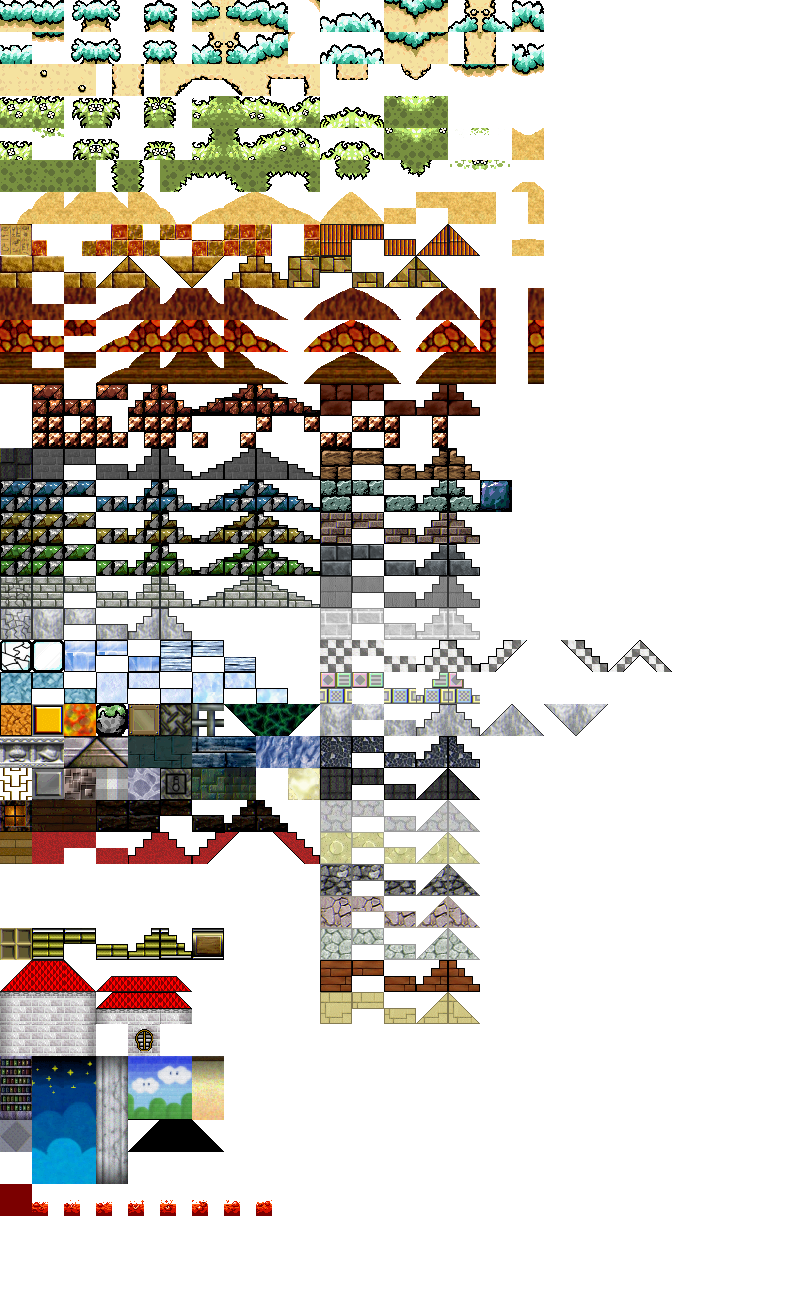
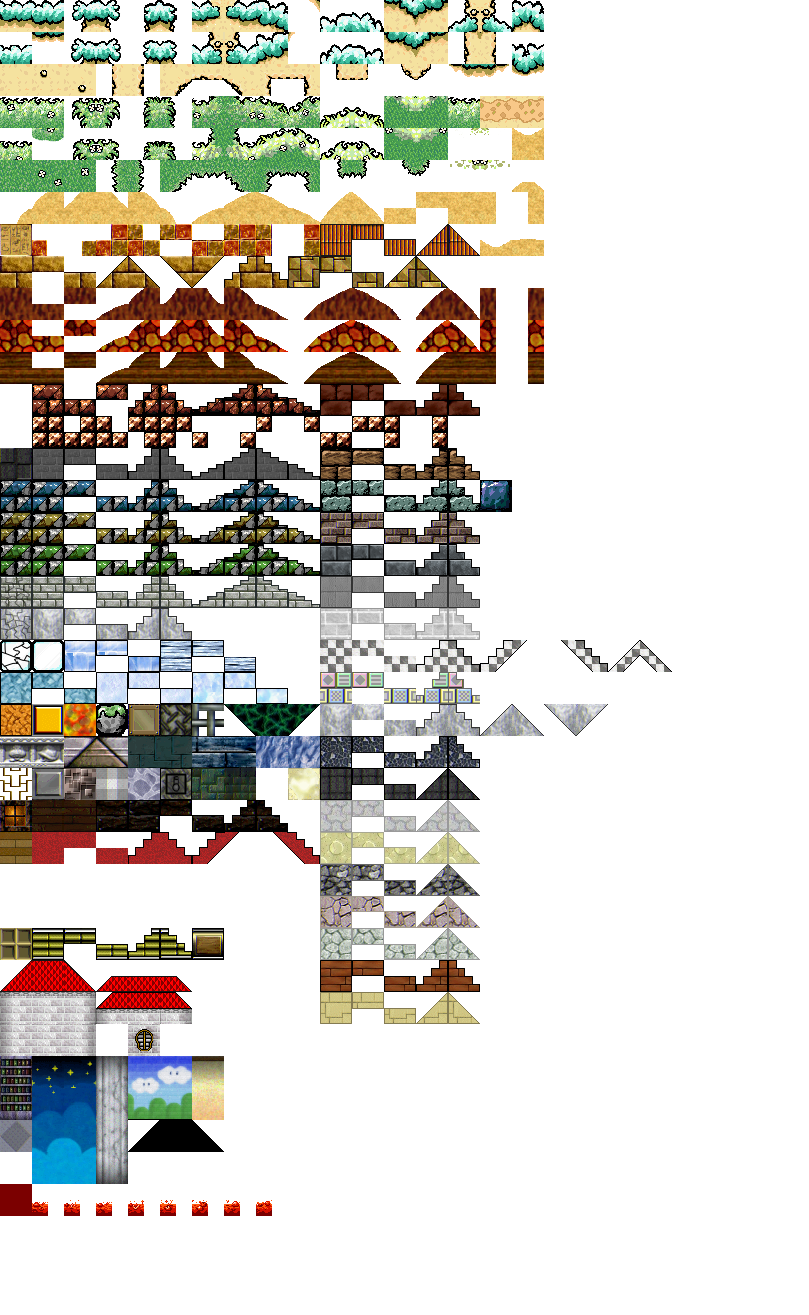
chore: 💄 Worked some more on the tileset, changing the grass to be a stardew valley grass

Changed region(s): [[0.0, 0.0624, 0.6799, 0.1559], [0.5871, 0.1871, 0.6489, 0.2183]]

diff --git a/CREDITS.md b/CREDITS.md
@@ -33,9 +33,17 @@
     - Secret Course Theme #1 - m477zorz
     - Bowser's trap/castle remix: ParagonX9
     - Made in Flash Professional 8 by Runouw
+    - Special thanks to Nintendo (and with small mentions to HAL Lab, Sora Ltd, SEGA, and Namco), without them, this Fan-Game would not be possible.
 
- - Grass Path: https://drawatree.itch.io/grass-path (modified)
+ - Grass & Path: from Stardew Valley, ripped by marios1999 & Mr Mad Mothy (modified slightly and formatted)
  - Grass 2.5D Tileset: https://edusilvart.itch.io/grass-tileset (modified)
  - `icons.png`: https://zeromatrix.itch.io/rpgiab-icons
 
-All modifications by me
+ - Coding by Tsunami014
+ - Game engine by Tsunami014
+    - Made in Python with Pygame <3
+ - Level design by Tsunami014
+ - Level editor; LDtk (==TODO:== LDtk credits)
+
+All modifications, formatting etc. unless specified, by me
+

diff --git a/possibleAssets/CREDITS.md b/possibleAssets/CREDITS.md
@@ -5,3 +5,4 @@
  - `items.png`: from Stardew Valley, ripped by Barack Obama, marios1999 https://www.spriters-resource.com/pc_computer/stardewvalley/sheet/197484/
  - `rain.png`: from Stardew Valley, ripped by Babycake, marios1999 https://www.spriters-resource.com/pc_computer/stardewvalley/sheet/169057/
  - `yoshijungle.png`: from Super Mario World 2: Yoshi's Island, ripped by Murphmario https://www.spriters-resource.com/snes/yoshiisland/sheet/136575/
+ - `outdoors.png`: from Stardew Valley, ripped by marios1999, Mr Mad Mothy https://www.spriters-resource.com/pc_computer/stardewvalley/sheet/88632/
